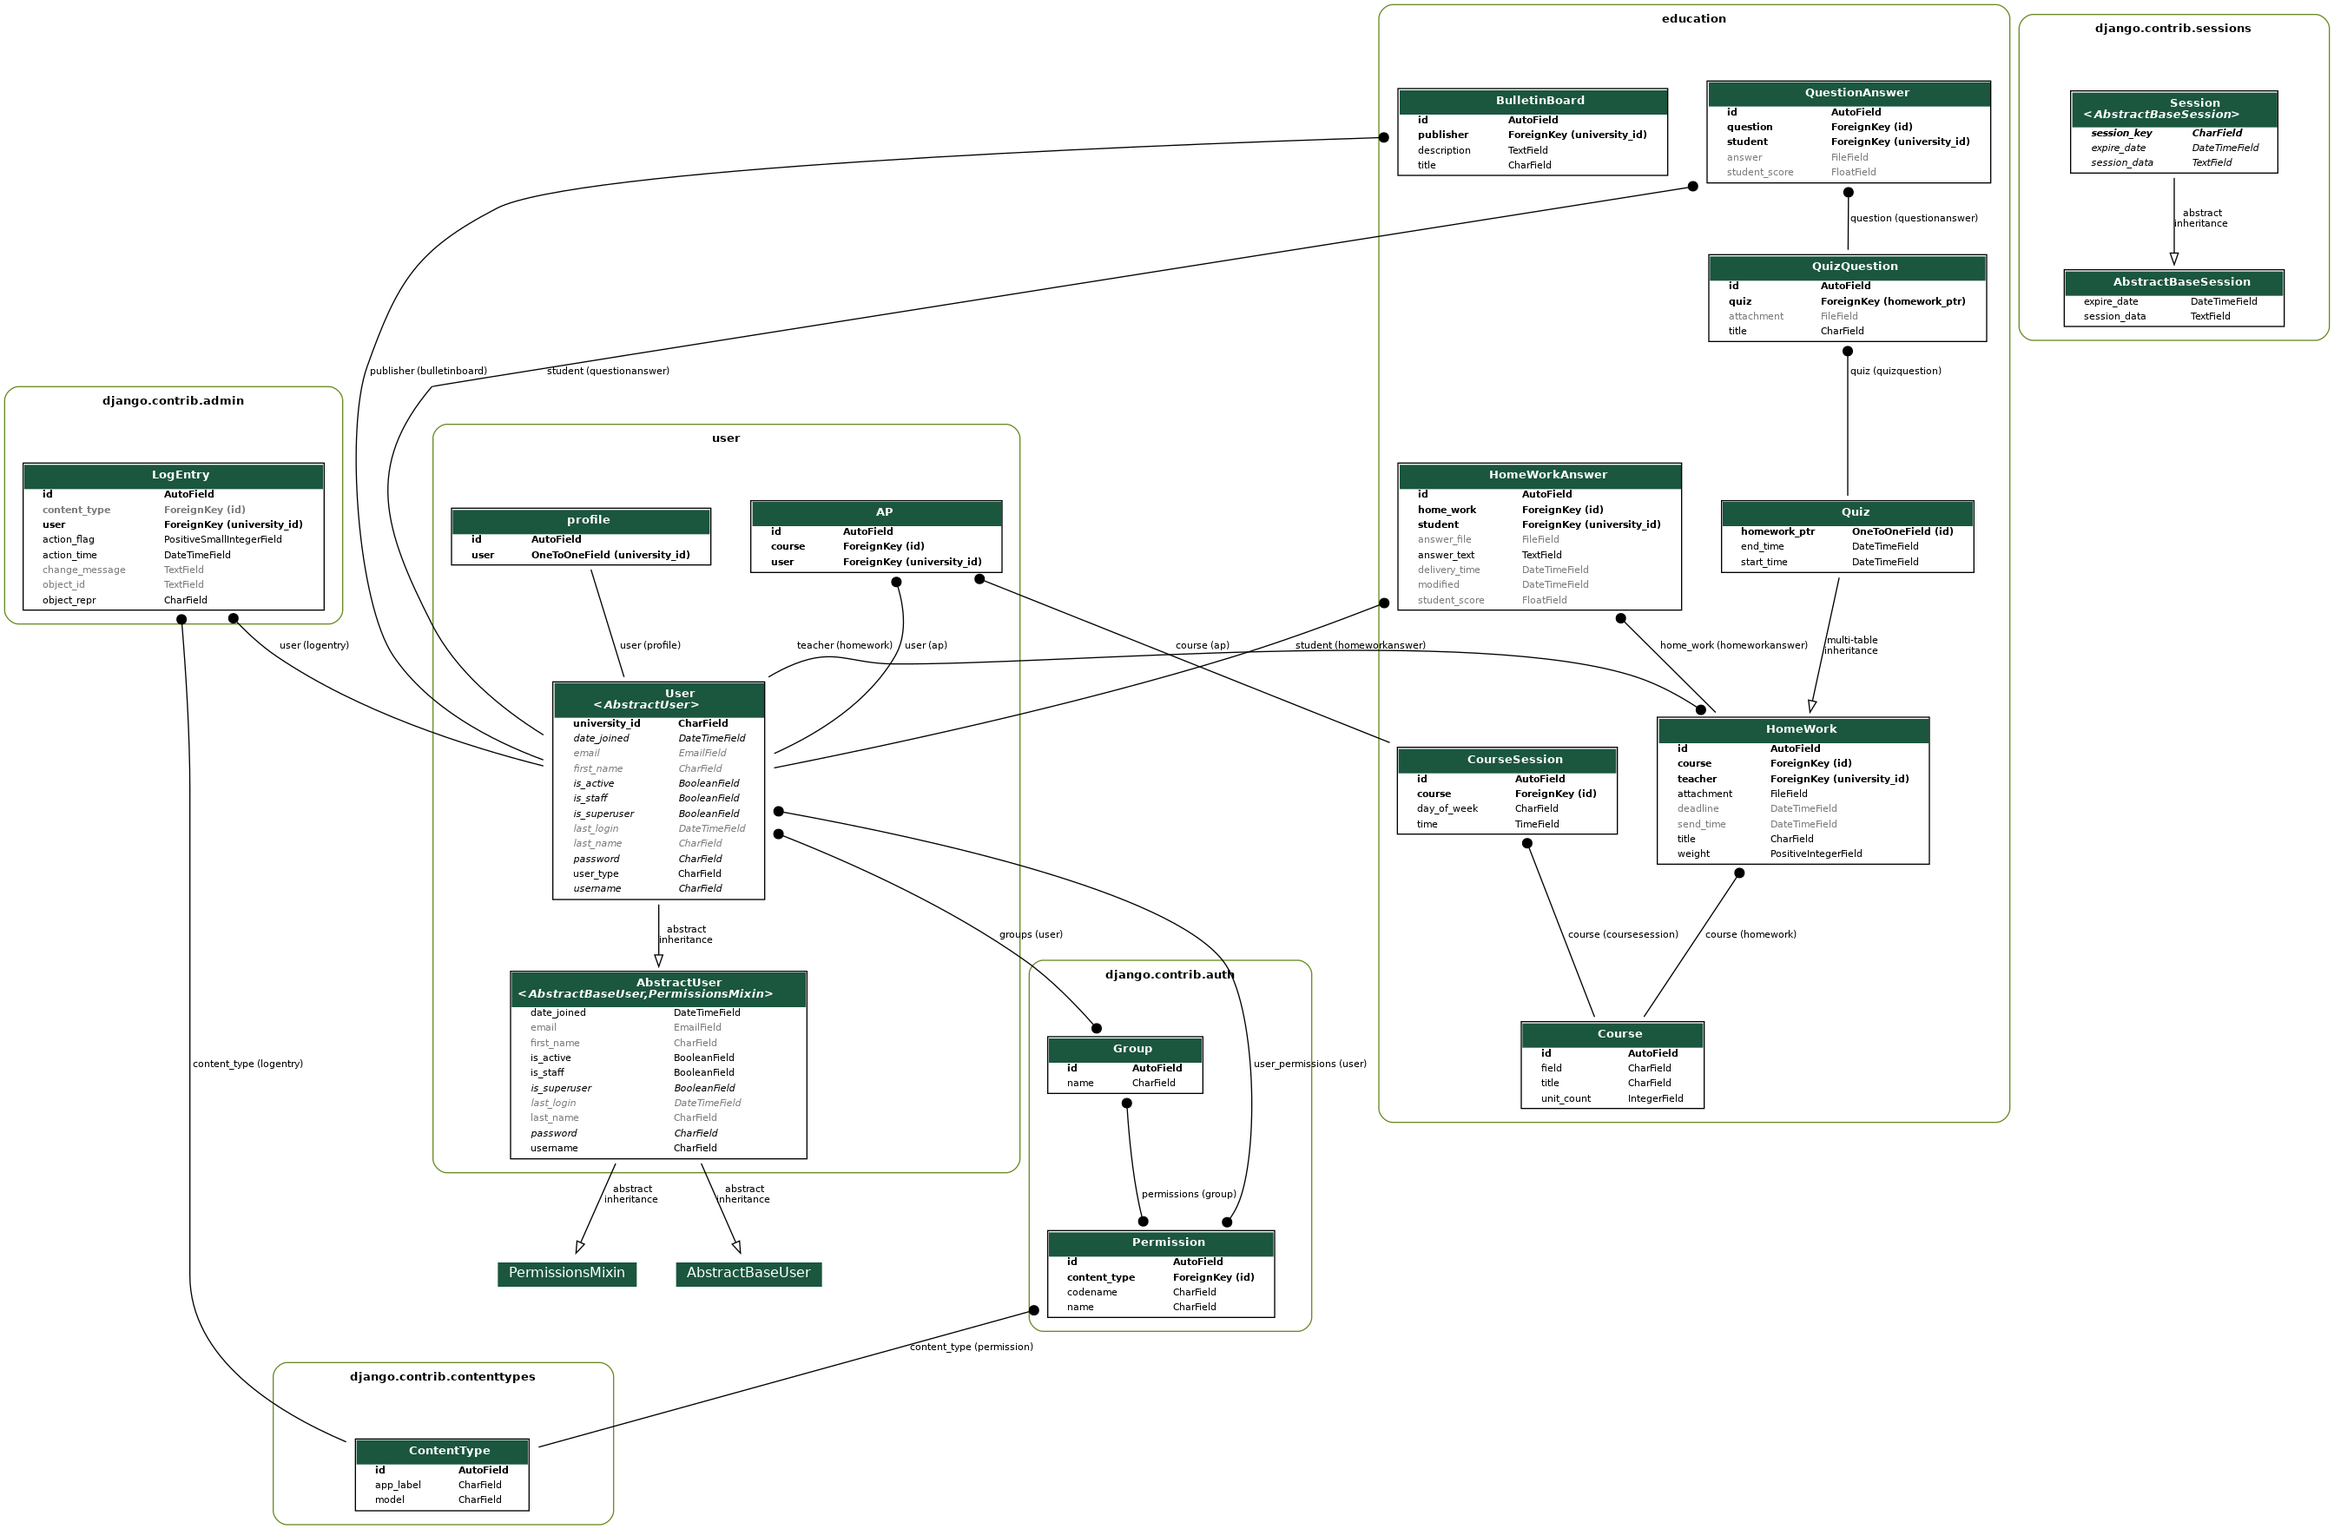
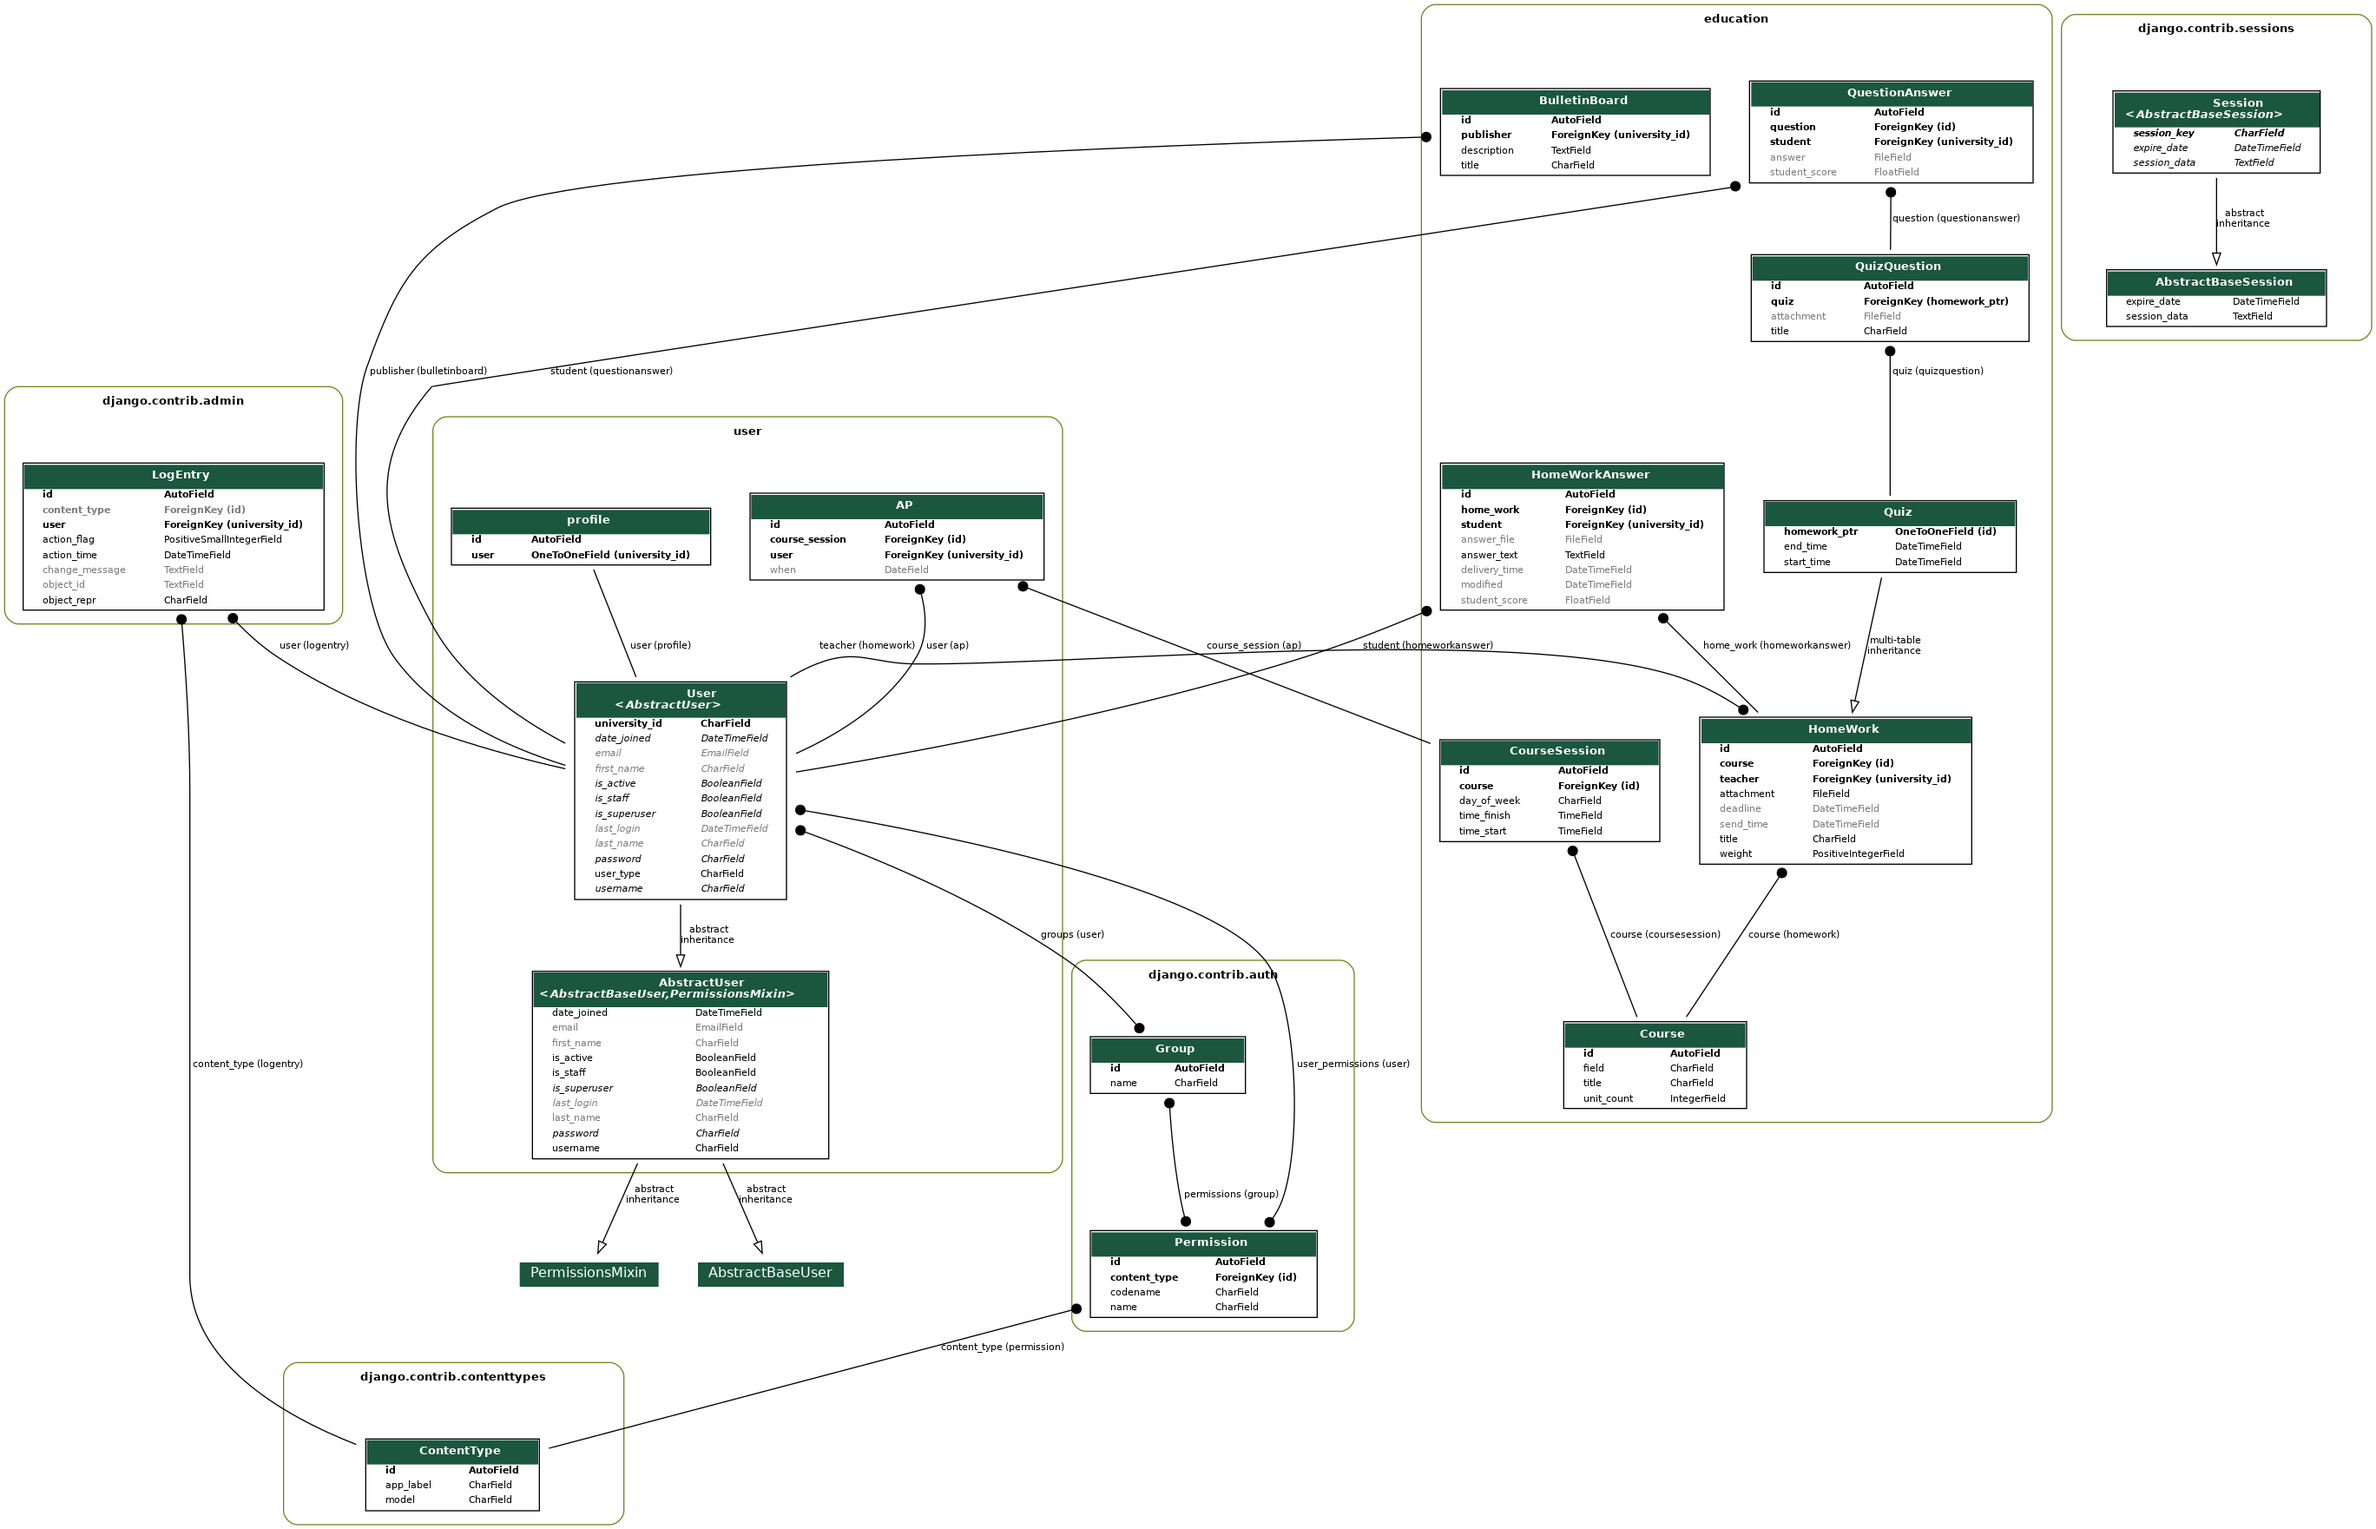
removed django extensions ,refreshed models graph imag

diff --git a/gakko/settings.py b/gakko/settings.py
@@ -40,7 +40,7 @@ INSTALLED_APPS = [
     'user',
     'education',
     'grades',
-    'django_extensions',
+    # 'django_extensions',
     
     
 ]
